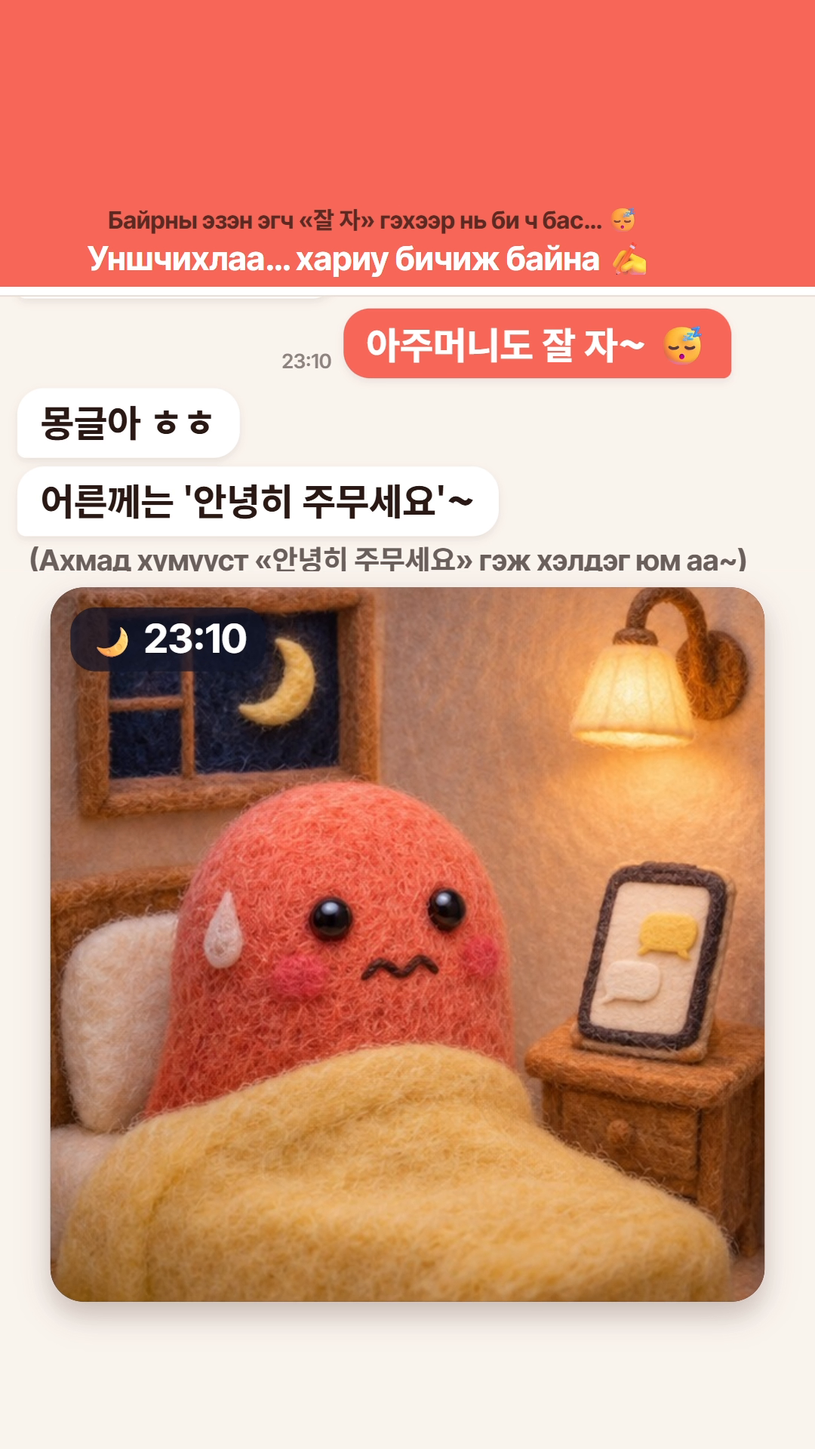
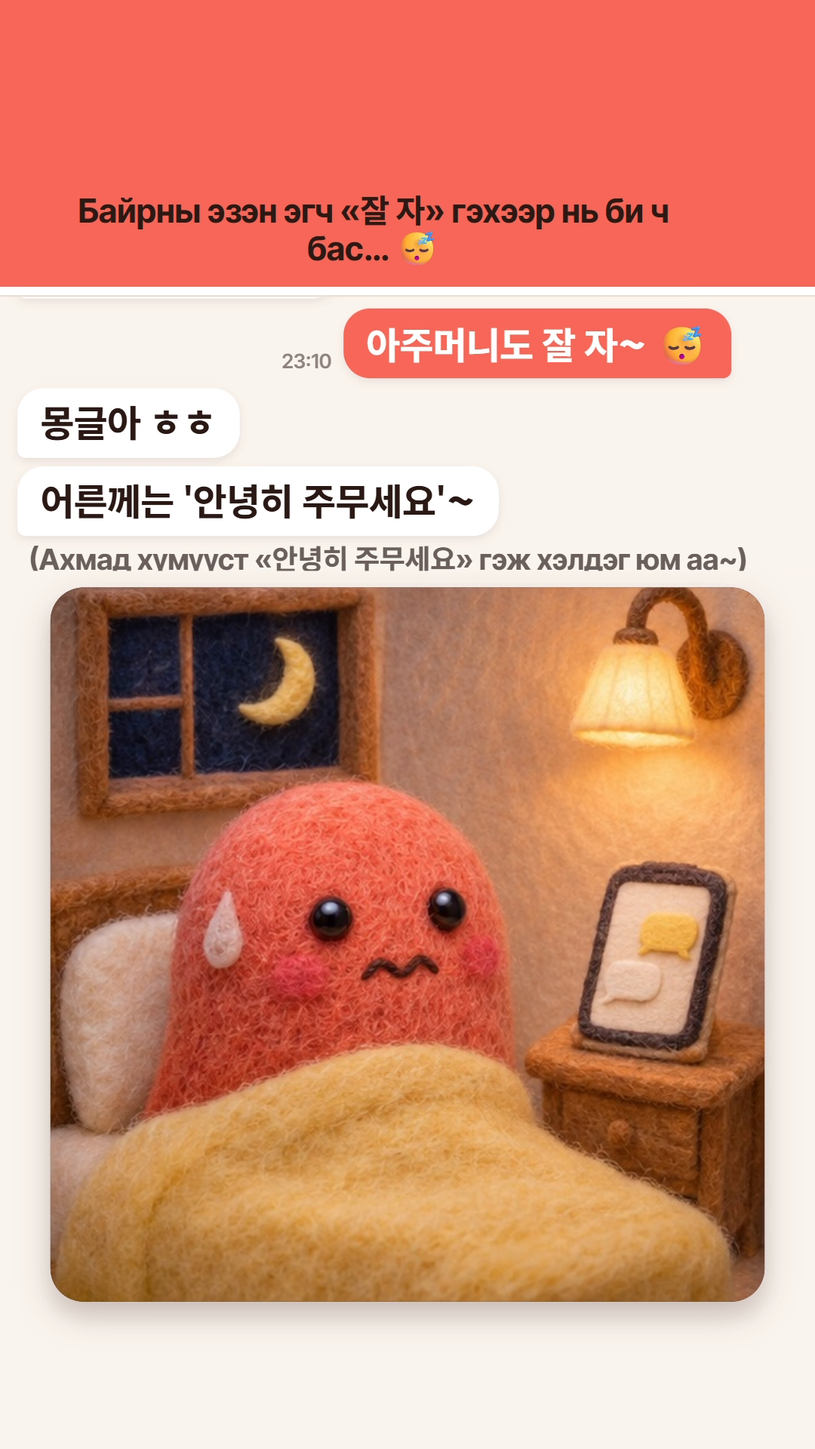
fix(LAB M45 v5 · 11-12 15시 회차): 카본 미학 맹검 v4 기각 넷을 고침 — 다음 날 밤 위 띠가 대화 머리를 덮던 카메라 · 2.1초 뜻 줄 잘림 · 방 그림 위 시각 알약(둘 · 달을 덮음) 걷음 · 띠 첫 줄 크기 튐 · 읽음 꼬리표 깜박임 · 그림 0.22초 겹쳐 바꿈 · 숨결 · 입력 줄 꼴(더하기 · 보내기) · 다음 날 밤 띠 · 「자다 → 주무시다」 튀어 듦. 손 · 휴대폰 자리는 다시 굽기 몫, v5 맹검은 Fable 교정 뒤 · 현장 노트(기울인 판 ⑤-2 오판) · 트랙 한 줄
관련 시험 건너뜀: 올리기전검사.test.js ⑩ 돌림 판 하나만 깨짐 — 이 커밋은 올리기전검사 코드를 건드리지 않음(편 파일 · 장부 · 문서만), 앞 커밋 d1e0b03f5에서도 같은 까닭으로 깨졌고 master CI도 11-12 18:15부터 빨강

diff --git a/docs/마케팅/LAB_잘자_mn_20261112/remotion/src/chat/Film.tsx b/docs/마케팅/LAB_잘자_mn_20261112/remotion/src/chat/Film.tsx
@@ -43,8 +43,19 @@ const Band: React.FC = () => {
   const f = useCurrentFrame();
   const s = useSpringAt(T.rule, { damping: 14, stiffness: 190 });
   const q = useSpringAt(T.ask, { damping: 14, stiffness: 190 });
-  const on = f >= fr(T.rule);
+  const m = useSpringAt(T.morning, { damping: 14, stiffness: 190 });
+  const t = f / 30;
   const ask = f >= fr(T.ask);
+  // 다음 날 밤 — 띠도 바뀐다(미학 맹검 v4 「다음 날 밤인데 띠 문구가 8칸 내내 그대로」 · 방 그림 위 시각 알약은 걷음)
+  if (t >= T.morning) {
+    return (
+      <div style={{ position: 'absolute', left: 0, top: 0, width: 1080, height: BAND_H, background: C.coral }}>
+        <div style={{ position: 'absolute', left: 70, width: 850, bottom: 40, textAlign: 'center', fontFamily: `${EN}, ${EMOJI}`, fontWeight: 800, fontSize: 64, lineHeight: 1.1, color: '#FFFFFF', opacity: interpolate(m, [0, 0.4], [0, 1], clamp), transform: `scale(${0.9 + 0.1 * m})` }}>
+          {MN.nextNight}… 🌙
+        </div>
+      </div>
+    );
+  }
   // 4.0초 물음 — 첫 줄을 걷고 두 줄로 크게(길어진 몽골어가 한 줄을 넘쳤다)
   if (ask) {
     return (
@@ -55,12 +66,20 @@ const Band: React.FC = () => {
       </div>
     );
   }
+  // 첫 줄: 처음엔 두 줄 크게 → 0.6초 둘째 줄이 오면 작은 한 줄로 → 1.8초 답이 오면 둘째 줄을 걷고 다시 크게.
+  // 미학 맹검 v4 「첫 줄이 한 칸 만에 작아짐」 · 「답이 왔는데 띠는 아직 '답 쓰는 중'」 → 크기를 바꾸지 않고 두 판을 0.25초 겹쳐 바꾼다.
+  // 겹쳐 바꾸면 0.25초 동안 두 판 글자가 포개져 어지럽다 → 앞 판이 다 빠진 뒤 다음 판이 든다
+  const big = interpolate(t, [T.rule, T.rule + 0.12, T.reply + 0.12, T.reply + 0.25], [1, 0, 0, 1], clamp);
+  const small = interpolate(t, [T.rule + 0.12, T.rule + 0.25, T.reply, T.reply + 0.12], [0, 1, 1, 0], clamp);
   return (
     <div style={{ position: 'absolute', left: 0, top: 0, width: 1080, height: BAND_H, background: C.coral }}>
-      <div style={{ position: 'absolute', left: 70, width: 850, ...(on ? { top: 274 } : { bottom: 26 }), textAlign: 'center', fontFamily: `${EN}, ${EMOJI}`, fontWeight: 800, fontSize: on ? 32 : 44, lineHeight: 1.14, whiteSpace: on ? 'nowrap' : 'normal', color: C.brown, opacity: on ? 0.78 : 1 }}>
+      <div style={{ position: 'absolute', left: 70, width: 850, bottom: 26, textAlign: 'center', fontFamily: `${EN}, ${EMOJI}`, fontWeight: 800, fontSize: 44, lineHeight: 1.14, color: C.brown, opacity: big }}>
         {MN.band}
       </div>
-      <div style={{ position: 'absolute', left: 60, width: 860, top: 318, textAlign: 'center', fontFamily: `${EN}, ${EMOJI}`, fontWeight: 800, fontSize: 44, lineHeight: 1.1, whiteSpace: 'nowrap', color: '#FFFFFF', opacity: on ? interpolate(s, [0, 0.5], [0, 1], clamp) : 0, transform: `scale(${0.85 + 0.15 * s})` }}>
+      <div style={{ position: 'absolute', left: 70, width: 850, top: 274, textAlign: 'center', fontFamily: `${EN}, ${EMOJI}`, fontWeight: 800, fontSize: 32, lineHeight: 1.14, whiteSpace: 'nowrap', color: C.brown, opacity: 0.78 * small }}>
+        {MN.band}
+      </div>
+      <div style={{ position: 'absolute', left: 60, width: 860, top: 318, textAlign: 'center', fontFamily: `${EN}, ${EMOJI}`, fontWeight: 800, fontSize: 44, lineHeight: 1.1, whiteSpace: 'nowrap', color: '#FFFFFF', opacity: interpolate(s, [0, 0.5], [0, 1], clamp) * small, transform: `scale(${0.85 + 0.15 * s})` }}>
         {MN.rule2}
       </div>
     </div>
@@ -130,9 +149,11 @@ const OneTag: React.FC = () => {
   const t = f / 30;
   const s = useSpringAt(T.tagIn, { damping: 13, stiffness: 200 });
   const s2 = useSpringAt(T.vanish, { damping: 10, stiffness: 240, mass: 0.6 });
-  const gone = interpolate(t, [T.typing[0] - 0.2, T.typing[0] + 0.1], [1, 0], clamp);
+  // 미학 맹검 v4 「«1» → ∅ уншчихлаа! 꼬리표가 0.25초 깜박이듯 지나감」 → 읽음 꼬리표는 걷고 「1」과 함께 사라진다(읽음은 위 띠 둘째 줄이 말한다)
+  const gone = interpolate(t, [T.vanish, T.vanish + 0.15], [1, 0], clamp);
   if (t < T.tagIn || gone <= 0) return null;
-  const read = t >= T.vanish;
+  const read = false;
+  void s2;
   return (
     <div style={{ position: 'absolute', left: 230, top: CHAT.y + 226, opacity: interpolate(s, [0, 0.4], [0, 1], clamp) * gone, transform: `rotate(-4deg) scale(${(0.7 + 0.3 * s) * (read ? 0.9 + 0.1 * s2 : 1)})`, transformOrigin: 'left center' }}>
       <div style={{ background: read ? C.red : '#FFFFFF', color: read ? '#FFFFFF' : C.brown, border: `4px solid ${read ? C.red : C.one}`, borderRadius: 18, padding: '10px 20px 12px', fontFamily: EN, fontWeight: 800, fontSize: 44, lineHeight: 1, boxShadow: '0 6px 14px rgba(80,30,20,0.18)' }}>
@@ -171,9 +192,16 @@ const typed = (t: number): string => {
 const InputBox: React.FC<{ text: string; t: number }> = ({ text, t }) => {
   const caret = Math.floor(t * 3) % 2 === 0;
   return (
-    <div style={{ position: 'absolute', left: 40, right: 40, bottom: 14, height: 80, borderRadius: 40, background: '#FFFFFF', border: `3px solid ${C.line}`, display: 'flex', alignItems: 'center', padding: '0 30px', fontFamily: `${KO.replace(', sans-serif', '')}, ${EMOJI}`, fontWeight: 800, fontSize: 46, color: C.brown, whiteSpace: 'nowrap' }}>
-      {text}
-      <span style={{ display: 'inline-block', width: 4, height: 50, marginLeft: 4, background: caret ? C.coral : 'transparent' }} />
+    // 미학 맹검 v4 「입력 칸에 보내기 단추 하나 없이 회색 줄 사이 글자만」 → 메신저 입력 줄 꼴(더하기 · 칸 · 보내기)
+    <div style={{ position: 'absolute', left: 70, right: 70, bottom: 12, height: 96, display: 'flex', alignItems: 'center', gap: 16 }}>
+      <div style={{ width: 64, height: 64, borderRadius: 32, background: '#EFE7E1', color: C.gray, fontFamily: "'Inter Tight', sans-serif", fontWeight: 700, fontSize: 48, display: 'flex', alignItems: 'center', justifyContent: 'center', lineHeight: 1 }}>+</div>
+      <div style={{ flex: 1, height: 88, borderRadius: 44, background: '#FFFFFF', border: `3px solid ${C.coral}`, boxShadow: '0 4px 12px rgba(80,30,20,0.12)', display: 'flex', alignItems: 'center', padding: '0 30px', fontFamily: `${KO.replace(', sans-serif', '')}, ${EMOJI}`, fontWeight: 800, fontSize: 46, color: C.brown, whiteSpace: 'nowrap', overflow: 'hidden' }}>
+        {text}
+        <span style={{ display: 'inline-block', width: 4, height: 50, marginLeft: 4, background: caret ? C.coral : 'transparent' }} />
+      </div>
+      <div style={{ width: 76, height: 76, borderRadius: 38, background: text ? C.coral : '#E6DCD6', display: 'flex', alignItems: 'center', justifyContent: 'center' }}>
+        <svg width={40} height={40} viewBox="0 0 24 24"><path d="M12 19V5M5 12l7-7 7 7" stroke="#FFFFFF" strokeWidth={3} fill="none" strokeLinecap="round" strokeLinejoin="round" /></svg>
+      </div>
     </div>
   );
 };
@@ -187,7 +215,7 @@ const Chat: React.FC = () => {
   const r2 = spring({ frame: f - fr(T.reply2), fps, config: { damping: 14, stiffness: 200, mass: 0.7 } });
   // 답이 오면 대화가 위로 밀린다(아주머니의 첫 「잘 자~」가 위로 나간다)
   const lift = t >= T.reply ? interpolate(r1, [0, 1], [0, 1], clamp) : 0;
-  const dim = t >= T.cardA - 0.1 && t < T.morning ? 0.25 : 1;
+  const dim = t >= T.cardA - 0.1 && t < T.morning ? 0 : 1; // 카드 밑으로 흐린 뜻 줄이 비쳐 어지러웠다
   const appear = (s: number) => ({ opacity: interpolate(s, [0, 0.4], [0, 1], clamp), transform: `translateY(${(1 - s) * 30}px)` });
   // 다음 날 밤 — 아주머니 「몽글아 잘 자~」 → 입력 칸에서 치고 · 지우고 · 다시 쳐서 「안녕히 주무세요!」 → 「아이고, 예뻐라~」
   if (t >= T.morning) {
@@ -236,7 +264,7 @@ const Chat: React.FC = () => {
         ) : null}
         <div style={{ height: 10 }} />
         {t >= T.reply2 ? (
-          <div style={appear(r2)}>
+          <div style={{ opacity: interpolate(r2, [0, 0.4], [0, 1], clamp) }}>{/* 미학 맹검 v4 「올라오는 뜻 줄 아랫절반이 대화 칸 아래에서 잘림」 → 올라오지 않고 제자리에서 뜬다 */}
             <Bubble text="어른께는 '안녕히 주무세요'~" me={false} />
             <Gloss text={MN.replyGloss} />
           </div>
@@ -278,7 +306,9 @@ const Col: React.FC<{ w: { who: string; ko: string; read: string; mn: string }; 
 const Cards: React.FC = () => {
   const f = useCurrentFrame();
   const t = f / 30;
-  const sub = (a: number) => ({ opacity: interpolate(t, [a, a + 0.2], [0, 1], clamp), transform: `translateY(${interpolate(t, [a, a + 0.25], [12, 0], { ...clamp, easing: EASE })}px)` });
+  // 「자다 → 주무시다」가 한 칸 만에 툭 뜬다(미학 맹검 v4) → 커지며 튀어 들어온다
+  const pv = useSpringAt(T.verbIn, { damping: 11, stiffness: 200, mass: 0.7 });
+  const sub = (a: number) => ({ opacity: interpolate(t, [a, a + 0.2], [0, 1], clamp), transform: `translateY(${interpolate(t, [a, a + 0.25], [12, 0], { ...clamp, easing: EASE })}px) scale(${t < a ? 0.6 : 0.6 + 0.4 * pv})` });
   return (
     <Card from={T.cardA} to={T.morning - 0.1}>
       <div style={{ display: 'flex', alignItems: 'flex-start', justifyContent: 'center', gap: 20 }}>
@@ -313,25 +343,26 @@ const Scene: React.FC = () => {
   const k = ROOMS.reduce((acc, r, i) => (t >= r.at ? i : acc), 0);
   const cur = ROOMS[k];
   const prev = k > 0 ? ROOMS[k - 1] : null;
-  const fade = k > 0 ? interpolate(t, [cur.at, cur.at + 0.06], [0, 1], clamp) : 1;
+  // 미학 맹검 v4 「정지 그림 두 장을 단순 교체해 휴대폰 · 벽등 · 창이 통째로 튐」 → 0.22초 겹쳐 바꾸고, 앞 그림도 그때의 크기로 둔다
+  const fade = k > 0 ? interpolate(t, [cur.at, cur.at + 0.22], [0, 1], { ...clamp, easing: EASE }) : 1;
+  const prevZoom = prev ? 1 + 0.03 * Math.max(0, cur.at - Math.max(0, prev.at)) : 1;
+  // 숨결 — 같은 그림이 박제처럼 서 있지 않게(2.4초에 한 번 0.6%)
+  const breath = 1 + 0.006 * Math.sin((t * 2 * Math.PI) / 2.4);
   const since = t - Math.max(0, cur.at);
   const io = { ...clamp, easing: Easing.bezier(0.65, 0, 0.35, 1) };
   // 카드 동안 굳은 얼굴로 다가가고(같은 그림이 멈춰 있지 않게), 끝 잠든 몽글은 크게
   const toFace = cur.src.includes('frozen') && t < T.morning ? interpolate(t, [T.cardA + 1.2, T.cardA + 1.55, T.morning - 0.2, T.morning + 0.05], [0, 1, 1, 0], io) : 0;
   const faceGo = interpolate(t, [T.cardA + 1.2, T.morning], [0, 1], clamp);
   const toEnd = cur.src.includes('sleep') ? interpolate(t, [T.flat + 0.3, T.flat + 0.9], [0, 1], io) : 0;
-  const zoom = (1 + 0.03 * since) * (1 + (0.45 + 0.3 * faceGo) * toFace) * (1 + 0.22 * toEnd + 0.05 * Math.max(0, t - T.flat - 0.9));
+  // 굳은 얼굴로 다가가는 배율 0.45~0.75 → 0.3~0.45(미학 맹검 v4 「확대될수록 펠트 화질만 무뎌짐」)
+  const zoom = (1 + 0.03 * since) * (1 + (0.3 + 0.15 * faceGo) * toFace) * (1 + 0.22 * toEnd + 0.05 * Math.max(0, t - T.flat - 0.9));
   const pop = cur.src.includes('frozen') || cur.src.includes('sleep') ? spring({ frame: f - fr(cur.at), fps, config: { damping: 9, stiffness: 220, mass: 0.6 } }) : 1;
   const popSc = 1 + 0.05 * Math.sin(Math.min(1, pop) * Math.PI);
-  const pill = t >= T.morning ? `${MN.nextNight} ${clockText(t)}` : clockText(t);
+  // 방 그림 위 시각 알약은 걷었다 — 대화 머리의 시각과 겹치고 창 속 달을 덮었다(미학 맹검 v4 K40). 다음 날 밤은 위 띠가 말한다.
   return (
     <div style={{ position: 'absolute', left: SCENE.x, top: SCENE.y, width: SCENE.s, height: SCENE.s, borderRadius: 40, overflow: 'hidden', boxShadow: '0 16px 36px rgba(60,30,20,0.28)', background: '#3A2A22' }}>
-      {prev && fade < 1 ? <Img src={staticFile(prev.src)} style={{ position: 'absolute', inset: 0, width: '100%', height: '100%', objectFit: 'cover' }} /> : null}
-      <Img src={staticFile(cur.src)} style={{ position: 'absolute', inset: 0, width: '100%', height: '100%', objectFit: 'cover', opacity: fade, transform: `scale(${zoom * popSc})`, transformOrigin: toEnd > 0 ? '48% 60%' : toFace > 0 ? '42% 42%' : '45% 55%' }} />
-      <div style={{ position: 'absolute', left: 24, top: 24, padding: '8px 22px 10px', borderRadius: 30, background: 'rgba(18,22,40,0.74)', color: '#FFFFFF', fontFamily: `'Inter Tight', ${EMOJI}`, fontWeight: 800, fontSize: 48, display: 'flex', alignItems: 'center', gap: 12 }}>
-        <span style={{ fontFamily: EMOJI, fontSize: 40 }}>🌙</span>
-        {pill}
-      </div>
+      {prev && fade < 1 ? <Img src={staticFile(prev.src)} style={{ position: 'absolute', inset: 0, width: '100%', height: '100%', objectFit: 'cover', transform: `scale(${prevZoom * breath})`, transformOrigin: '45% 55%' }} /> : null}
+      <Img src={staticFile(cur.src)} style={{ position: 'absolute', inset: 0, width: '100%', height: '100%', objectFit: 'cover', opacity: fade, transform: `scale(${zoom * popSc * breath})`, transformOrigin: toEnd > 0 ? '48% 60%' : toFace > 0 ? '42% 42%' : '45% 55%' }} />
     </div>
   );
 };
@@ -397,10 +428,11 @@ const useCam = () => {
     [T.verbIn + 0.14, 1.04, 540, 700],
     [T.morning - 0.02, 1.04, 540, 700],
     [T.morning + 0.2, 1, 540, 960],
-    [T.type1[0], 1, 540, 960],
-    [T.type1[0] + 0.25, 1.1, 540, 760],
-    [T.myReply - 0.02, 1.1, 540, 760],
-    [T.myReply + 0.2, 1, 540, 960],
+    [T.type1[0], 1, 540, 380],
+    // 입력 칸으로 다가갈 때 대화 머리가 위 띠 밑으로 밀려 잘렸다(미학 맹검 v4 K5) → 머리 윗선(380)을 축으로 키운다
+    [T.type1[0] + 0.25, 1.08, 540, 380],
+    [T.myReply - 0.02, 1.08, 540, 380],
+    [T.myReply + 0.2, 1, 540, 380],
   ];
   const k = keys.findIndex((_, i) => i === keys.length - 1 || t < keys[i + 1][0]);
   const a = keys[k], b = keys[Math.min(k + 1, keys.length - 1)];

diff --git a/docs/마케팅/기획장부/LAB.md b/docs/마케팅/기획장부/LAB.md
@@ -275,5 +275,5 @@
 | E40 | 「전기장판」 — 한겨울 원룸에서 떨던 몽글이 전기장판 위에서 치즈처럼 녹는다 | 오마주 같은분야 · 유입 · 근거 B | 순위 1(11-11 스캔 — 슬롯 11-21(토) 21:00 · 끝까지 4 · 재미 4 · 저장 3 · 볼 이유 4 · 같아 보임 부분(E38처럼 「한국 생활 공간에서 늘어진 몽글」 그림 개그) · **조건부 둘:** ⑴ 핵심 칸이 「몽글이 녹았다」로 안 읽힘(haiku 「캐릭터 얼굴이 달린 전기장판」) — 둥근 머리를 남긴 반쯤 녹은 단계 · 첫 장면 담요를 옆에 두어 같은 몽글로 잇기 ⑵ 첫 2초와 핵심 칸을 같은 원룸 하나로 — 앉아 있던 매트가 꺼진 전기장판 → 켜면 녹는 흐름) | | **무엇으로 이기나:** 한 장면 — 꺼진 난방기 앞 담요 속에서 떨던 몽글이 전기장판을 켜자 납작하게 녹아 퍼진다. **원본** https://www.youtube.com/shorts/UbUW9JQk_Uw · 같은분야 · 한국어 교육 채널 「My kids didn't know this Korean word」(전기장판의 장판 = 방바닥 전체) 3.3만 · 평소의 5.43배 · 좋아요율 7.4% · 댓글 62 · 10-28 · 173초(우리는 25초 안팎 — 「다르게」에 까닭). **근거 B(댓글):** 「옛 기름 먹인 종이 바닥이 신기하다」(좋아요 47) · 「장판이 방석인 줄 알았는데 바닥 전체였다」(19). **한 문장:** "Korean winter tip: not a heater — a 전기장판 (electric floor pad)." **첫 2초:** `시안/E40_첫2초.jpg`(성에 낀 창 · 꺼진 난방기 · 담요 속 몽글 + 「Korean winter hack?」). **핵심 칸:** `시안/E40_핵심칸.jpg`(주황빛 장판 위 녹은 몽글 + 「전기장판 / electric floor pad」) — haiku 「어두운 방 바닥의 따뜻한 전기장판(분홍 털 캐릭터 얼굴이 달린)에서 김이 올라온다」. **댓글 놀이:** 여러분 나라의 겨울 필수품 한 가지(문구는 만들 때). **먼저:** 핵심 칸을 다시 구워 맥락 없는 시험관이 「몽글이 녹았다」로 읽는지, 「장판 = 방바닥 전체」 뜻은 사전으로 확인. |
 | E41 | 「누가?」엔 「제가!」 — 은/는 · 이/가를 손글씨 한 장면으로 | 우리편(검증된 틀 손글씨 POV) · 권위 · 근거 B | **완성(관문 못 넘음 — 11-12 15시 회차 · 18.6초 v6 · 장면 심사 v2 통과(멈춤 · 3) · 이해 시험 v4 이해 4 · 3 · 3 · 3 · 재미 3 · 3 · 2 · 3 · haiku 9번 「같아 보임」 · 볼 이유 이야기 · 3 · 아님, 시험 뒤 글 · 자리만 고친 v5 → 올리기 전 검사 흰 글자 오판을 고친 v6 · 11-16(월) 21:00 lab-youtube · 영어 줄 가장 이른 빈 칸, 검증된 틀 손글씨 POV 11-16~22 주 몫 — 편 폴더 기획.md 「판정」)** · 앞: 순위 2(11-11 스캔 — 슬롯 11-22(일) 21:00 · 끝까지 3 · 재미 2 · 저장 4 · 볼 이유 3 · 같아 보임 아니오 · **조건부 둘:** ⑴ 첫 2초 「Who is 몽글?」은 마스코트 소개로 읽힘 → 틀린 답의 긴장으로("Answer 'who?' with 저는? ✗") ⑵ 빨간 동그라미가 「저는」 자체를 틀린 말로 가르치지 않게 끝을 「저는 = 나를 소개할 때 / 제가 = '누가?'에 답할 때」로 나눔) | [LAB_누가제가_20261112](../LAB_누가제가_20261112/기획.md) | **무엇으로 이기나:** 한 장면 — 「누가 몽글이에요?」에 「저는 몽글이에요」라고 쓴 손, 빨간 동그라미가 「는」에 닿고 다음 줄에 「제가 몽글이에요!」. **원본** 우리편 E23 손글씨 POV(72시간 유튜브 999회 · 평소의 6.5배 · 좋아요 4 · 댓글 4) — 그 주(11-16~22) 손글씨 POV 몫. **근거 B(X — 11-11 ego 열어 확인):** x.com/i/status/2119928790449000464 「은/는 · 이/가는 원어민도 감으로 고른다 — 어디서 막혔나」 좋아요 1,435 · 재게시 186 · 북마크 605 · 조회 7.9만(그 계정 다른 글 좋아요 40 안팎 — 그록 보고, 11-10 열었을 때 북마크 578). **한 문장:** "When someone asks 'who?', answer with 이/가 — 제가!, not 저는." **첫 2초:** `시안/E41_첫2초.jpg`. **핵심 칸:** `시안/E41_핵심칸.jpg` — haiku 「손이 「저는」의 「는」을 빨갛게 동그라미 치고 「제가 몽글이에요!」라고 고쳐 쓴다」(같은 일). **댓글 놀이:** 「누가 ○○ 했어?」에 한국어로 답해 보기. **먼저:** 문법 설명은 영상에 한 줄(정보 · 새 정보 구분 같은 말은 캡션으로). |
 | M43 | 「붙다」 = 붙다 · 합격하다 — 수능 다음 날, 몽글이 문에 엿을 철썩 붙인다 | 오마주 같은분야 · 권위 · 근거 B | 순위 2(11-11 스캔 — 슬롯 11-20(금) 21:00(시의성 — 관문 권고) · 끝까지 4 · 재미 3 · 저장 4 · 볼 이유 4 · 같아 보임 부분(M42와 「한 낱말 두 뜻을 몽글이 그대로 받음」 짜임, 수능 · 장소는 새것) · **조건부 둘:** ⑴ 엿이 엿으로 안 읽힘(haiku 「끈적한 호박색 얼룩」) — 붙이기 전에 엿가락 · 엿 상자를 건네받는 컷 ⑵ 엿 붙이기는 시험 전 일이니 「어제 한국에서는」 회상으로 짜고 경찰 오토바이 · 영어 듣기 25분 비행기 멈춤을 앞에 — M42 · M43 · M44 사흘 잇달아 「두 뜻」 편이 되지 않게 수능 사실 쪽에 무게) | | **무엇으로 이기나:** 한 장면 + 시의성 — 수능 날 한국은 비행기도 멈추고, 몽글은 시험장 문에 엿을 「붙어라!」. 시청자 다수가 TOPIK 준비생이라 「시험에 붙다 · 떨어지다」를 바로 쓴다. **원본** https://www.youtube.com/shorts/bs8NiqqmOvE · 같은분야(lab-mn 시드) · 한국 교양 쇼츠 「야구 우승 반지가 뭔데?」 34.4만 · 평소의 3.61배 · 좋아요 4.6천 · 댓글 202 · 11-03 · 29초(「~가 뭔데?」 설명 꼴). 같은 채널 「온라인 절」(qZe9siFsFKU 40.4만 · ×4.23)에 「수능도 있어서」 댓글. **사실(읽음 11-11):** 2027학년도 수능 2026-11-19(목)([헤럴드경제](https://www.heraldk.com/article/2026062919000082154) · [이투데이](https://www.etoday.co.kr/news/view/2390974)), 영어 듣기 13:10~13:35 항공기 · 헬기 이착륙 조정([정책브리핑 — 교육부 10-20 국무회의 보고](https://m.korea.kr/news/policyNewsView.do?newsId=148973935)). **한 문장:** 「'붙다'는 '달라붙다'이자 '시험에 붙다' — 그래서 시험 날 엿을 줘요」. **첫 2초:** `시안/M43_첫2초.jpg`(펠트 학교 정문 · 기도하는 부모 · 경찰 오토바이 + 「수능 = ?」). **핵심 칸:** `시안/M43_핵심칸.jpg` — haiku 「펠트 유령이 끈적한 호박색 얼룩 묻은 나무문을 보며 「붙어라!」」. **댓글 놀이:** TOPIK 볼 친구를 태그하고 「붙어라!」. **먼저:** 엿 · 미역국 풍습은 「그런 풍습이 있다」로만(지금 모두가 한다고 단정하지 않기), 비행기 칸은 「영어 듣기 25분」 사실대로, 키릴 읽기 · 몽골 뜻 세 줄. |
-| M45 | 「잘 자」는 친구에게, 하숙집 아주머니께는 「안녕히 주무세요」 — 「잘 자~ 😴」에 아주머니가 「'안녕히 주무세요' 해야지~ ㅎㅎ」 | 우리편(검증된 틀 ① 채팅 화면 글 — M15 「그래 = за」 뼈대, M26 「읽씹」 코드) · 몽골 13:00 칸 · 육성 · 근거 A(틀) | **제작 중 — 몽골어 Fable 5.2 교정 대기(11-12 15시 회차 · 18.6초 v4 · 장면 심사 v2 통과 · 이해 시험 v3 이해 4 · 4 · 3 · 4 · 재미 3 · 3 · 3 · 3 · haiku 9번 「같아 보임」 · 볼 이유 3 · 아님 → 관문 못 넘음. 몽골어 대조 화면 글 6차 · 캡션 2차 「정상」 · Opus 역번역 두 번 「자연스러움」, Fable 5.2 교정만 남음(Opus 세션이라 못 띄움) — 받고 미학 맹검 · 올리기 전 검사를 깨끗이 넘을 때만 11-14(토) 13:00 인스타 · 페북 · 틱톡 @synk.mn에 올리고, 못 넘으면 머리말 「몽골 13시 칸」대로 그 칸을 비움 · 텔레그램은 하루 한 편이라 빠진판. 칸 고름: 가장 이른 빈 칸 11-13 13:00은 이 회차 뒤 걸 게시 회차가 없어 그다음 11-14, 같은 날 21:00 M34는 틀 ⑥이라 다른 틀 · 이번 주 ①은 M26 하나뿐 — 편 폴더 기획.md 「판정」)** | [LAB_잘자_mn_20261112](../LAB_잘자_mn_20261112/기획.md) | **무엇으로 이기나:** 이야기 — 밤에 하숙집 아주머니의 「몽글아 잘 자~」에 몽글이 그대로 「아주머니도 잘 자~ 😴」 → 「1」이 사라지고 → 「몽글아 ㅎㅎ」 「어른께는 '안녕히 주무세요'~」 → 이불 속에서 굳은 몽글 → 「아주머니는 되는데 나는 왜?」 → 카드 하나(어른 → 우리: 잘 자 / 우리 → 어른: 안녕히 주무세요 · 자다 → 주무시다) → 다음 날 밤 입력 칸에서 「잘 자~」를 쳤다 지우고 「안녕히 주무세요! 🙇」 → 「아이고, 예뻐라~ 💕」 → 웃으며 잠든 몽글 「불공평해 😂」. **원본** 우리편 — 검증된 틀 ① 채팅 화면 글(M15 「그래 = за」 72시간 인스타 1.77배 · 「교수님 첫 문자」 2.4배, 11-02 확정 · 근거 A). **한 문장:** 「친구에겐 '잘 자', 어른께는 '안녕히 주무세요' — 어른은 나에게 '잘 자'라고 해도 된다」(몽골어 판은 세 겹 검수). **먼저:** 몽골어 세 겹 · 「주무시다」 높임 사실 확인 |
+| M45 | 「잘 자」는 친구에게, 하숙집 아주머니께는 「안녕히 주무세요」 — 「잘 자~ 😴」에 아주머니가 「'안녕히 주무세요' 해야지~ ㅎㅎ」 | 우리편(검증된 틀 ① 채팅 화면 글 — M15 「그래 = за」 뼈대, M26 「읽씹」 코드) · 몽골 13:00 칸 · 육성 · 근거 A(틀) | **제작 중 — 몽골어 Fable 5.2 교정 대기(11-12 15시 회차 · 18.6초 v5 · 장면 심사 v2 통과 · 이해 시험 v3 이해 4 · 4 · 3 · 4 · 재미 3 · 3 · 3 · 3 · haiku 9번 「같아 보임」 · 볼 이유 3 · 아님 → 관문 못 넘음. 미학 맹검 v4 받은 넷 모두 기각(3 · 2 · 3 · 2) → 코드로 고칠 것은 v5에서 다 고침(위 띠가 대화 머리를 덮음 · 뜻 줄 잘림 · 시각 알약 둘 · 그림 단순 교체 등), 몽글 손 · 휴대폰 자리는 다시 굽기 몫 · v5 맹검은 교정 뒤. 몽골어 대조 화면 글 6차 · 캡션 2차 「정상」 · Opus 역번역 두 번 「자연스러움」, Fable 5.2 교정만 남음(Opus 세션이라 못 띄움) — 받고 미학 맹검 · 올리기 전 검사를 깨끗이 넘을 때만 11-14(토) 13:00 인스타 · 페북 · 틱톡 @synk.mn에 올리고, 못 넘으면 머리말 「몽골 13시 칸」대로 그 칸을 비움 · 텔레그램은 하루 한 편이라 빠진판. 칸 고름: 가장 이른 빈 칸 11-13 13:00은 이 회차 뒤 걸 게시 회차가 없어 그다음 11-14, 같은 날 21:00 M34는 틀 ⑥이라 다른 틀 · 이번 주 ①은 M26 하나뿐 — 편 폴더 기획.md 「판정」)** | [LAB_잘자_mn_20261112](../LAB_잘자_mn_20261112/기획.md) | **무엇으로 이기나:** 이야기 — 밤에 하숙집 아주머니의 「몽글아 잘 자~」에 몽글이 그대로 「아주머니도 잘 자~ 😴」 → 「1」이 사라지고 → 「몽글아 ㅎㅎ」 「어른께는 '안녕히 주무세요'~」 → 이불 속에서 굳은 몽글 → 「아주머니는 되는데 나는 왜?」 → 카드 하나(어른 → 우리: 잘 자 / 우리 → 어른: 안녕히 주무세요 · 자다 → 주무시다) → 다음 날 밤 입력 칸에서 「잘 자~」를 쳤다 지우고 「안녕히 주무세요! 🙇」 → 「아이고, 예뻐라~ 💕」 → 웃으며 잠든 몽글 「불공평해 😂」. **원본** 우리편 — 검증된 틀 ① 채팅 화면 글(M15 「그래 = за」 72시간 인스타 1.77배 · 「교수님 첫 문자」 2.4배, 11-02 확정 · 근거 A). **한 문장:** 「친구에겐 '잘 자', 어른께는 '안녕히 주무세요' — 어른은 나에게 '잘 자'라고 해도 된다」(몽골어 판은 세 겹 검수). **먼저:** 몽골어 세 겹 · 「주무시다」 높임 사실 확인 |
 | M44 | 「눈 + 물 = 눈물?」 — 몽글이 만든 눈사람이 녹아 웅덩이가 되자 진짜 눈물이 난다 | 우리편(검증된 틀 ⑥ 글자 그대로) · 전환 · 근거 A | 순위 1(11-11 스캔 — 슬롯 11-21(토) 21:00 · 끝까지 4 · 재미 4 · 저장 4 · 볼 이유 4 · 같아 보임 부분(M42와 「한 낱말 두 뜻」 결, 눈사람을 잃는 이야기는 새것) · **조건부 둘:** ⑴ 목도리 색 · 마을(게르 눈 마을 → 유럽풍 골목)이 두 칸에서 바뀜 → 같은 마을의 봄 해빙으로 ⑵ 「눈 + 물」이 틀린 어원으로 남지 않게 끝에 몽글의 눈(目)에서 흐르는 눈물 클로즈업으로 바로잡기 · 네 계정 가운데 근소한 2위) | | **무엇으로 이기나:** 이야기의 여운 + 말장난 — 「눈 + 사람 = 눈사람」을 배운 몽글이 해가 나자 녹은 웅덩이 앞에서 「눈 + 물 = 눈물?」, 진짜 눈물은 몽글의 눈(目)에서. **원본** 우리편 틀 ⑥ M24 `LAB_물고기_mn_20261102` — 72시간 페북 7,835회 · 평소의 29배 · 공유 3, 틱톡 6,364회 · 7.8배 · 공유 7(앞 편 11-14 M34 「물개」는 지난주). **한 문장:** 「눈(雪)도 눈(目)도 '눈' — 눈사람이 녹으면 눈물?」. **첫 2초:** `시안/M44_첫2초.jpg`(게르가 보이는 눈 마을 · 몽글과 눈사람 + 「눈 + 사람 = 눈사람」). **핵심 칸:** `시안/M44_핵심칸.jpg` — haiku 「털 인형이 눈물을 흘리고, 녹은 눈사람 자리 웅덩이에 당근과 목도리가 남아 있다」(같은 일). **전환:** 끝에 앱 · 허브에서 「눈」 낱말 더(링크 응답 200 확인). **댓글 놀이:** 「눈」이 들어간 한국어 낱말 하나 더. **먼저:** 눈(雪)은 긴소리 · 눈(目)은 짧은소리라는 사실은 캡션으로, 키릴 읽기 · 몽골 뜻 세 줄. |

diff --git a/docs/_ops/트랙.md b/docs/_ops/트랙.md
@@ -453,6 +453,7 @@ synk-town 운영은 11-01 실제 대조 v45 — 0555a4c7(싱크타운 첫 C4 후
 - **댓글 DM:** talk 운영에서 Claude 자동 답 · 대화 이어 답하기 · 직접 답 뒤 하루 쉼으로 돌고, 누락 · 중복 · 링크 대조는 서버 15분 감시 하나가 맡는다([자료표](../마케팅/댓글DM_자료표.md) · [기록](../마케팅/yuhobuilds_세션공유_20261017/게시/댓글DM_등록_인계.md#claude-dm-ai-escalation-20261019)). 다음 synkbrief-dm 변경은 최신 Talk origin/master에서 잇는다. 남은 일: 말투 세 가지(같은 언어 · 쉬운 말 · 근거 없는 질문 넘기기) 재배포, 「직접 확인하고 답드릴게요」 알림 메일이 오면 DM에 직접 답하기. Gemini 자유질문 API는 미연결. [경과](보관/트랙_2026-11.md#t1102-341)
 - **MiniMax 직접 실행:** 공식 신청 접수만 완료, 승인/조건/비용 회신 대기다. GPU 대여·설치·실행은 비용 승인 뒤 판단한다. [접수·재개](qa/ai-media-20261007/README.md).
 - **LAB 11-13 · 11-14 칸(11-10 07시 회차):** 11-13 세 편은 아르곤이 「안 보내짐」으로 막혀 GPT 대체 맹검으로 받았다 — E32 「세 시 삼십 분」 v22(기각 2) · M32 「수고하세요」 v13(기각 3)은 고친 판을 한 번 더 본 것이라 제작 절차 「순서」 3대로 「맹검판단」과 함께 「완성」 · 작업실등록, M37 「피곤할 때」 v9(기각 4)는 13시 칸이라 **11-13 13:00을 비웠다**(보류). 「미흡하면 다시」는 결정 11-09 행대로 synkbrief · yuhobuilds 칸 규칙이라 LAB에 걸지 않았다. 11-14는 [E34 「리나 둘」](../마케팅/LAB_리나둘_20261110/기획.md)(21:00 @synkkorean, v9 GPT 기각 3 → 맹검판단) · [M40 「네. 마침표」](../마케팅/LAB_네마침표_mn_20261110/기획.md)(v11 아르곤 기각 3 → **11-14 13:00 몽골 판 셋은 비움**, 샤오훙수 11-14 · 버마어 11-15 두 채널 판만). 남은 일: E32 작업실 다시 등록(11-09 취소 표식 — `node "$OPS/tools/작업실예약.js" "$OPS/docs/마케팅/LAB_세시삼십분_20261109" --실행`, 예약 회차는 예약을 하지 않아 남김) · 비운 13:00 칸 둘(11-13 · 11-14)은 다음 회차가 검증된 틀로 채울 수 있다.
+- **LAB 11-12 15시 회차 — E41 · M45(Claude Opus):** 영어 [E41 「누가?」엔 「제가!」](../마케팅/LAB_누가제가_20261112/기획.md) 11-16(월) 21:00 lab-youtube — 「완성(관문 못 넘음)」 v6(올리기 전 검사 흰 글자 오판을 고친 판). 몽골 [M45 「잘 자」 · 「안녕히 주무세요」](../마케팅/LAB_잘자_mn_20261112/기획.md) 11-14(토) 13:00 인스타 · 페북 · 틱톡 — 「제작 중」, 작업실 등록 없음. **남은 일:** ① M45 몽골어 Fable 5.2 교정(검문 `게시/검문/화면글_6차.txt` · `캡션.txt`) — 다음 Fable 세션 회차가 받고, (글이 바뀌면 다시 렌더) v5 미학 맹검 · 올리기 전 검사를 깨끗이 넘을 때만 작업실 등록(v4 맹검 넷 기각은 v5에서 고쳤고 몽글 손 · 휴대폰 자리만 다시 굽기 몫), 11-14 13:00 전에 못 받으면 머리말 「몽골 13시 칸」대로 그 칸을 비운다. ② 11-13 13:00 몽골 칸은 이 회차 뒤 걸 게시 회차가 없어 비었다. ③ 두 채널 판(11-17) 못 만듦 — 번역 세 겹에 Fable 5.2가 들어 Opus 회차로는 못 넘는다.
 - **yuhobuilds 형식 시험 진행자 칸 둘 완성(11-03):** 11-09 [AI 목소리 되풀이](../마케팅/yuhobuilds_목소리되풀이_20261103/기획.md) · 11-11 [AI 검수 다섯](../마케팅/yuhobuilds_검수다섯_20261103/기획.md) — 둘 다 「완성(관문 못 넘음 — 재미 · 볼 이유)」, 얼굴은 이마 주름 없는 판. 미학 판 · 끝 저장할 한 장 · 짜임 다시([임팩트는 사건에서](../마케팅/기획장부/yuhobuilds.md#impact-from-story-20261103))까지 고쳤고 임팩트는 여전히 2다. 11-04 오디오 하한에 맞춰 소리를 다시 담았다. 게시는 슬롯 날 14시 작업. 11-10 옛 형식 칸 [Y36 대사 바뀜](../마케팅/yuhobuilds_대사바뀜_20261106/기획.md)도 완성(관문 못 넘음). 남은 칸 11-12는 같은분야 원본으로(장부 표), 11-13 진행자 칸도 이마 주름 없는 지시문으로. [경과](보관/트랙_2026-11.md#t1110-30)
 - **틱톡 @yuhobuilds 쉼 — 시험 한 편 결과 보기(11-01 · 11-05, 「틱톡 결과 봐줘」라고 하시면 아무 세션이 본다):** 계정 전체 조회 0이라 유호님 「쉬게 해」 → `sns-계정.json` `dailyBlocked`로 쉬는 중(11-05 Account check 전부 체크 — 제재 아님, 까닭은 아직 모른다). 11-05 22:26 가장 잘된 편(PC 정리, [게시결과](../마케팅/yuhobuilds_PC정리맡겼더니_20261031/게시/게시결과.json))을 시험으로 올렸다. 남은 것: 11-06 22:30 뒤 손으로 본다(읽는 스크립트 `~/ego/y27-tiktok-test-20261105/check-1.mjs`) — 24시간 조회 20 이상이면 dailyBlocked를 지우고 다음 편부터 다시 단다, 0이면 계속 쉰다, 1~19면 72시간까지 본다. 본 결과는 기록 없음. 근거 [현장 노트 · 브라우저 게시](../현장노트/브라우저_게시.md) · [결정](결정.md) 11-01. [경과](보관/트랙_2026-11.md#t1110-31)
 - **밀린 게시 따라잡기(11-08 14시 「오늘 편 게시」, 남은 것: 샤오훙수 권한 창 — 유호님 손 한 번):** GPT 로그인 복구 뒤 밀린 판을 걸었다 — 페북 SYNK 11-08~11-12 다섯(놓친 벗어요는 11-12로 옮김) · 읽씹 인스타 교차, 틱톡 다섯, X · 링크드인 · 작업실 승인 셋(11-12), 티스토리 11-08~11-12 다섯 · 네이버 11-10~11-12, 유튜브 고정 댓글 넷(ㅋ하나 · 화날때 · 요금제질문셋 · 홈페이지다똑같다), 블로그 쇼츠 칸 여섯(티스토리 /15~/18 · 네이버 둘), 어제 판 공개 · 주소. 남은 것: 샤오훙수 둘(형오빠 11-11 · 괜찮아요 11-12 22:00)은 다음 14시 회차가 건다 — 위치 권한 창은 11-08 저녁 더 뜨지 않는다(유호님이 막으심, Claude가 노트 관리 · 글쓰기 · 올리기까지 확인). 여기요(11-09 22:00) 샤오훙수는 그때 고친 판으로 바꿔 걸었다. 스레드 밀린 판은 21시 스레드 작업 몫. 기록은 각 편 `게시/게시결과.json`, 함정은 [현장 노트](../현장노트/브라우저_게시.md) 11-08 세 절.

diff --git a/docs/마케팅/LAB_잘자_mn_20261112/기획.md b/docs/마케팅/LAB_잘자_mn_20261112/기획.md
@@ -78,8 +78,18 @@
 
 ## 미학 맹검
 
-(카본 결과는 아래에 덧붙인다 — `node tools/미학맹검.js --이름 LAB_잘자_mn_v4`, 순간 1.0 · 2.6 · 7.3 · 10.2 · 17.4초 + 마스코트 대조)
+카본(Gemini 웹 「카본 높음」) `node tools/미학맹검.js --영상 <video.mp4> --순간 1.0 · 2.6 · 7.3 · 10.2 · 17.4초 --마스코트 몽글`. 기록 `<공용 작업본>/.tmp/미학맹검/LAB_잘자_mn_v4/`(git 밖).
+
+| 판 | 화면 | 판정 | 짚은 것 | v5에서 |
+|---|---|---|---|---|
+| v4 | 01 1.0초 띠 | 기각 3 | 위 띠 첫 줄이 한 칸 만에 작아짐 · 「«1» → ∅ уншчихлаа!」 꼬리표가 0.25초 깜박임 · 대화 머리와 방 그림에 「🌙 23:10」이 둘 · 방 그림이 숨결도 없는 정지 · 빨간 띠 + 대화 + 아래 상자 세 단이 템플릿 같다 | 두 판을 차례로 빼고 넣음(0.12초씩) · 읽음 꼬리표 걷음(「1」과 함께 사라짐) · 방 그림 위 시각 알약 걷음 · 숨결(2.4초에 0.6%) · 세 단 틀은 검증된 틀 ①이라 그대로 |
+| v4 | 02 2.6초 띠 | 기각 2 | 정지 그림 두 장을 단순 교체해 휴대폰 · 벽등 · 창이 통째로 튐 · 올라오는 뜻 줄 아랫절반이 대화 칸 아래에서 잘림 · 답이 왔는데 띠는 아직 「답 쓰는 중」 | 그림 0.22초 겹쳐 바꿈(앞 그림도 그때 크기로) · 둘째 답은 제자리에서 뜸 · 1.8초 답이 오면 띠 둘째 줄을 걷고 첫 줄을 다시 크게 |
+| v4 | 03 7.3초 띠 | 기각 3 | 위 절반에 한 · 몽 글이 열 줄 넘게 몰림 · 「자다 → 주무시다」가 한 칸 만에 툭 · 굳은 얼굴로 디지털 확대할수록 펠트가 무뎌짐 · 시각 알약이 창 속 달을 덮음 | 「자다 → 주무시다」가 커지며 튀어 듦 · 확대 배율 0.45~0.75 → 0.3~0.45 · 카드 밑 흐린 대화 걷음 · 알약 걷음. 카드 글 양은 그대로(풀이 카드 한 장 — 이해 시험이 요구한 읽기 · 뜻) |
+| v4 | 04 10.2초 띠 | 기각 2 | **위 띠가 대화 머리를 30% 덮음(카메라가 입력 칸으로 다가갈 때)** · 입력 칸이 회색 줄 사이 글자만 · 다음 날 밤인데 띠 문구 그대로 · 몽글 손은 이불 속 · 휴대폰은 협탁 위 | 카메라를 머리 윗선(380px) 축으로 1.08배 · 입력 줄을 더하기 · 칸 · 보내기 단추 꼴로 · 8.3초부터 띠 «Дараагийн орой… 🌙» · **손 · 휴대폰 자리는 그림을 다시 구워야 해 못 고침** |
+| v4 | 05 17.4초 띠 · 06 마스코트 대조 | 답 못 받음 | 둘째 대화가 보낸 뒤 화면에서 사라져(아르곤웹 「사라짐」) 읽기가 줄 끝에 섰고, 영상이 v5로 바뀌어 그 읽기는 멈췄다 | — |
+
+v5는 다시 맹검하지 않았다 — 몽골어 Fable 5.2 교정에서 화면 글이 바뀌면 다시 렌더해야 해서, 교정 → (바뀌면 렌더) → 미학 맹검 → 올리기 전 검사 차례로 다음 회차가 한다. 그림을 다시 굽는다면(몽글이 휴대폰을 든 판) 그때 같이 한다.
 
 ## 판정
 
-**제작 중 — 몽골어 Fable 5.2 교정 대기(11-12 15시 회차).** 장면 심사 v2 통과 · 이해 시험 v3 이해 4 · 4 · 3 · 4 · 재미 3 · 3 · 3 · 3이지만 haiku 9번 「같아 보임」 · 볼 이유 3 · 아님이라 관문(①~④)은 못 넘었다. 장부 머리말 「몽골 13시 칸」 — 「약한 판은 내지 않는다」: Fable 5.2 교정과 미학 맹검 · 올리기 전 검사를 깨끗이 넘을 때만 11-14 13:00에 올리고, 못 넘으면 그 칸을 비운다(편은 다른 칸 · 두 채널 판으로 돌릴 수 있게 남긴다).
+**제작 중 — 몽골어 Fable 5.2 교정 대기(11-12 15시 회차).** 장면 심사 v2 통과 · 이해 시험 v3 이해 4 · 4 · 3 · 4 · 재미 3 · 3 · 3 · 3이지만 haiku 9번 「같아 보임」 · 볼 이유 3 · 아님이라 관문(①~④)은 못 넘었다. 미학 맹검 v4는 받은 넷이 모두 기각(3 · 2 · 3 · 2) — 짚은 자리 가운데 코드로 고칠 것은 v5에서 다 고쳤고, 몽글 손 · 휴대폰 자리만 그림을 다시 구워야 한다. 올린 판 v5(−14.5 LUFS · 올림판 8.51MB · 음악층 꺼짐 0 · 원본과 나란히 맞음). 장부 머리말 「몽골 13시 칸」 — 「약한 판은 내지 않는다」: Fable 5.2 교정과 v5 미학 맹검 · 올리기 전 검사를 깨끗이 넘을 때만 11-14 13:00에 올리고, 못 넘으면 그 칸을 비운다(편은 다른 칸 · 두 채널 판으로 돌릴 수 있게 남긴다).

diff --git a/docs/현장노트/영상_ffmpeg_자막.md b/docs/현장노트/영상_ffmpeg_자막.md
@@ -90,6 +90,12 @@
 - 고침: 찾는 순서에 지금 작업본 뿌리를 공용 작업본보다 앞에 넣었다(`tools/오마주.js`).
 - 다시 확인: 워크트리에서 최종본을 다시 렌더한 뒤 `나란히`의 「우리 n칸」이 검사 ⑮의 수와 같은지.
 
+### 기울인 색 판 위의 진한 글자가 올리기 전 검사 ⑤-2 「흰 기본 글자(판 · 테두리 없이 그림 위)」로 고칠 것에 걸린다 (2026-11-12 Claude)
+- 증상: LAB E41 3.5초 꼬리표 「same answer → ✗ ?!」(산호색 판 · 진한 갈색 글자 · −5° 기울임)가 「바탕 얼룩 44 · 흰 글자 둘레 어두운 칸 0%」로 고칠 것에 걸렸다. 화면에서는 판 위 글자라 잘 읽힌다.
+- 원인: 글자 인식 줄 상자는 수평 네모인데 판은 기울어 있어, 상자 양 끝 모서리에 판 밖 흰 종이가 들어온다. 그 흰 칸(215 이상)이 5~42% · 둘레가 산호색(어둡지 않음) · 나머지가 판과 종이로 얼룩져 ⑤-2의 세 조건을 다 맞춘다.
+- 고침: 그 판만 기울기 −5° → −2°, 판 위아래 여백 14 → 20px(`docs/마케팅/LAB_누가제가_20261112/remotion/src/film/Film.tsx` Tag). 기울인 꼬리표를 새로 쓸 때는 글자 폭 × sin(기울기)의 반보다 판 위아래 여백을 크게 둔다(폭 470px · −5°면 약 21px).
+- 다시 확인: 다시 렌더한 판으로 `node tools/올리기전검사.js <편> --저장안함` — 그 줄이 고칠 것에서 사라지는지. 맹검을 받은 뒤 고치면 ⑱ 「맹검 뒤 영상이 바뀜」이 되니 렌더를 바꾸는 고침은 맹검 전에 검사를 한 번 미리 돌려 찾는다.
+
 ## ffmpeg 이음·자르기·음량
 
 ### xfade 사슬에서 소리는 끝까지 가는데 영상만 중간에 끊긴다
